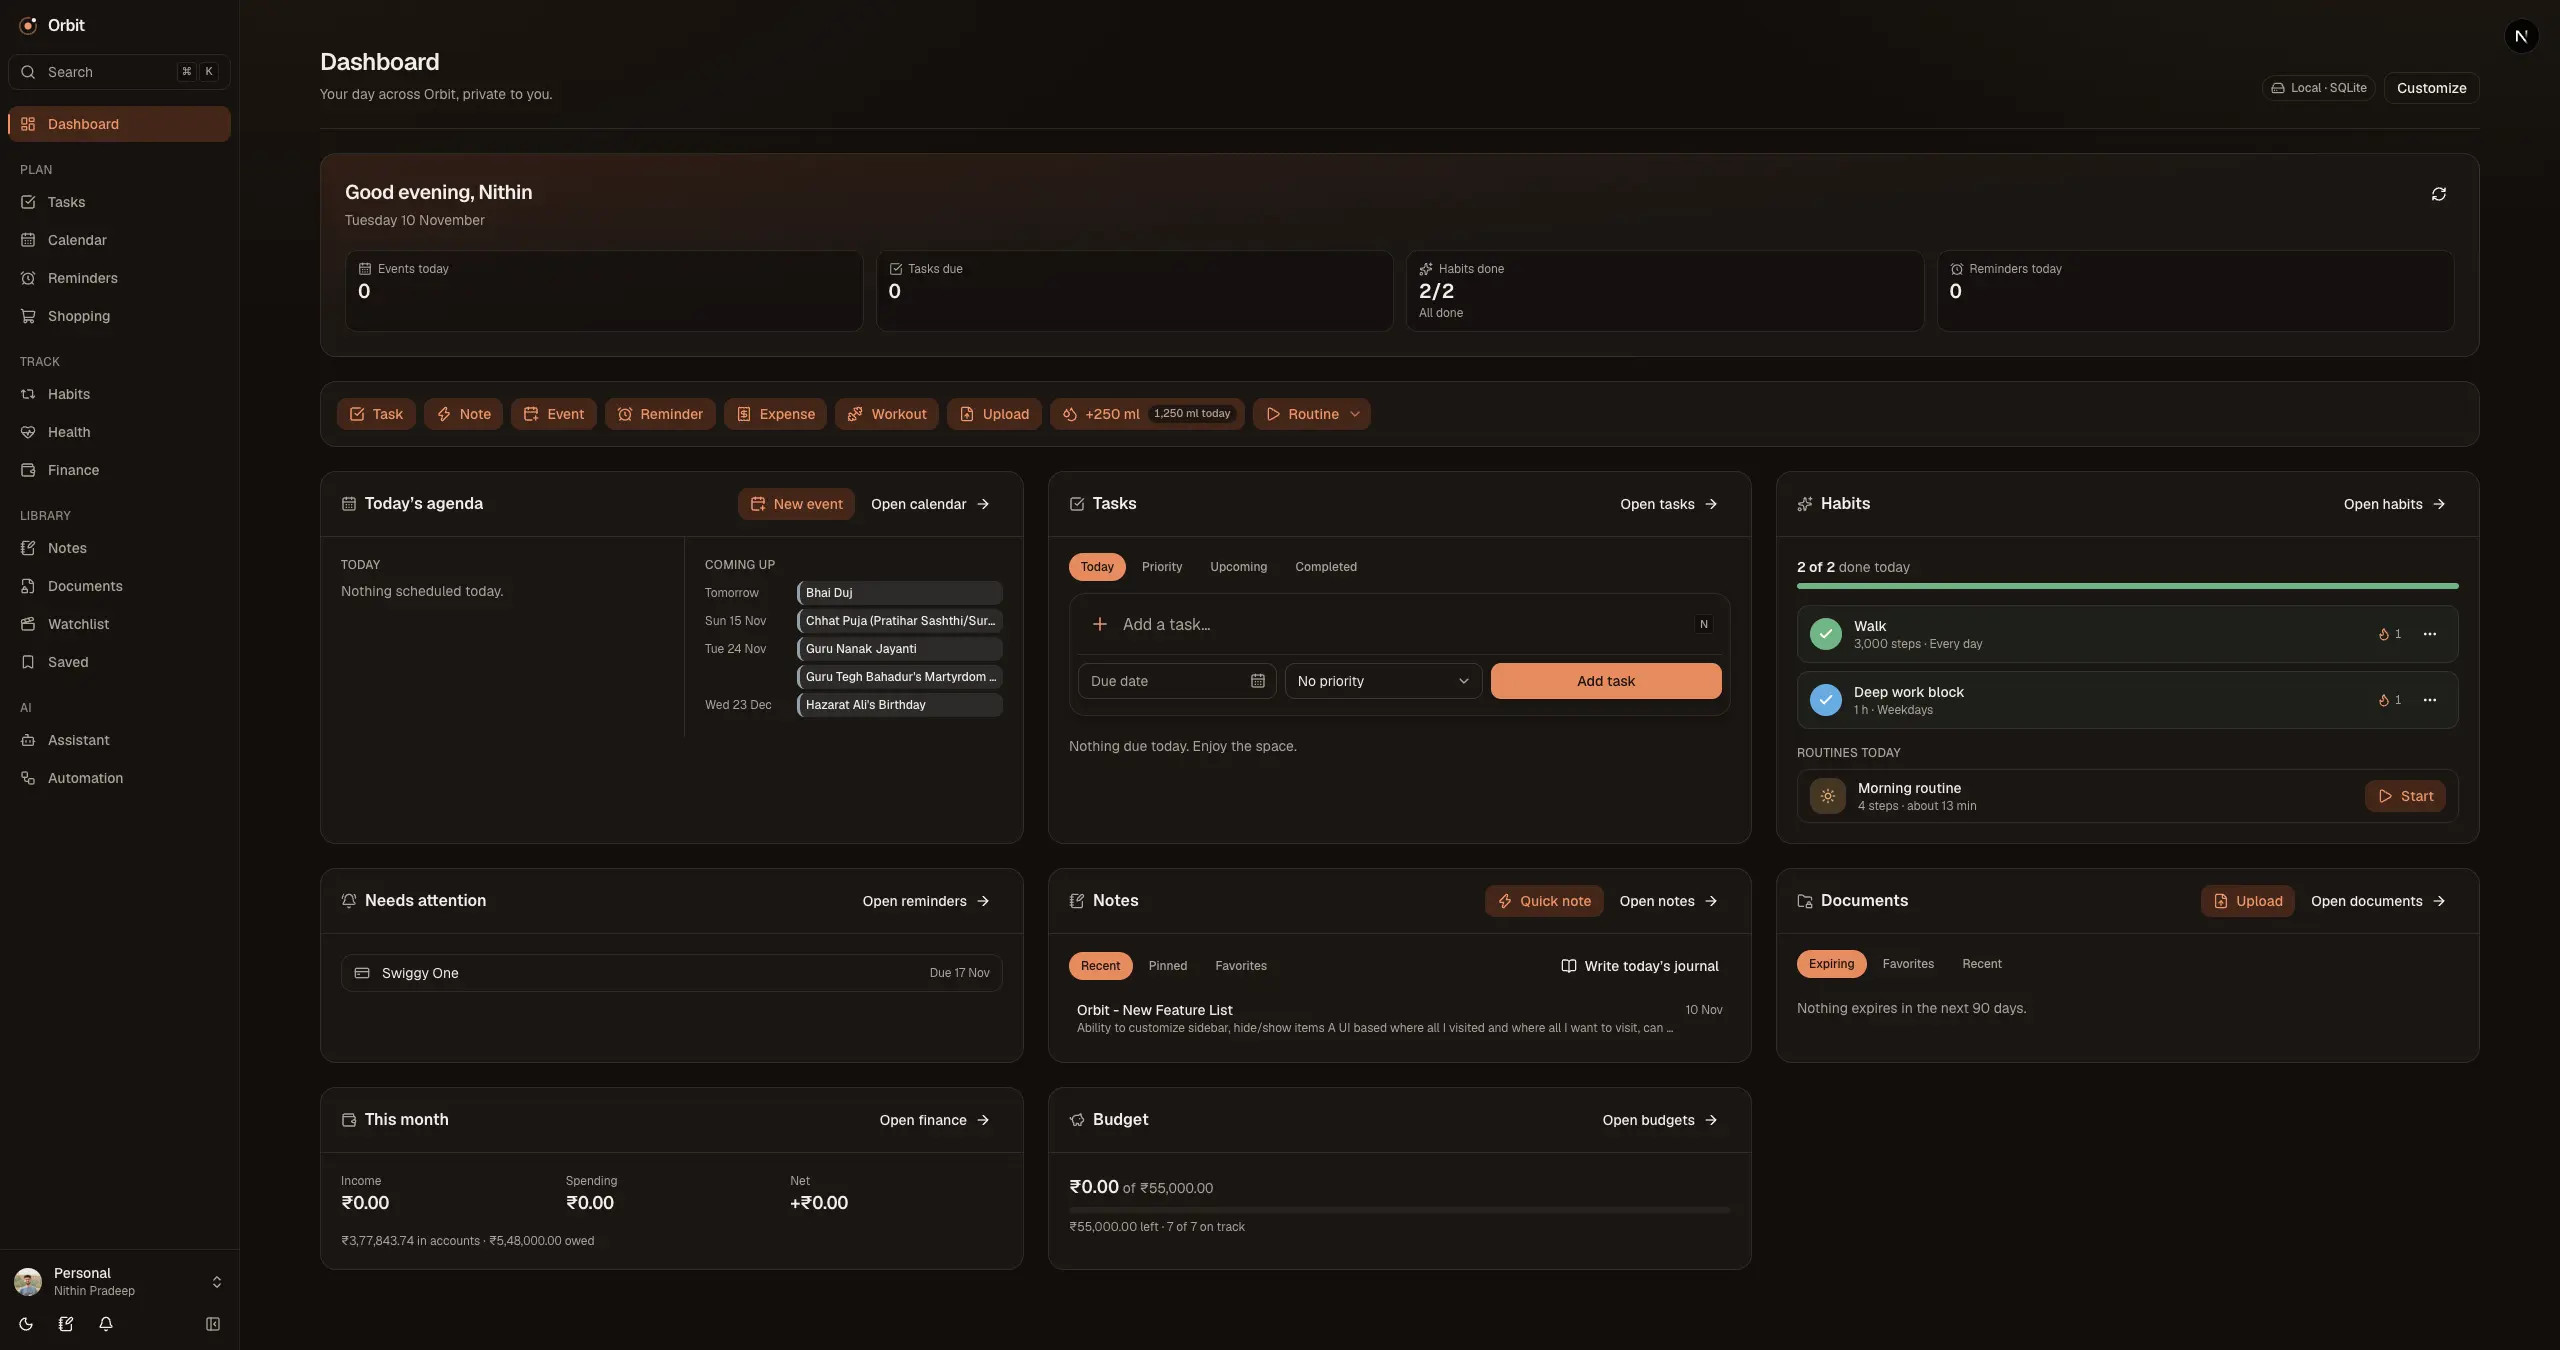
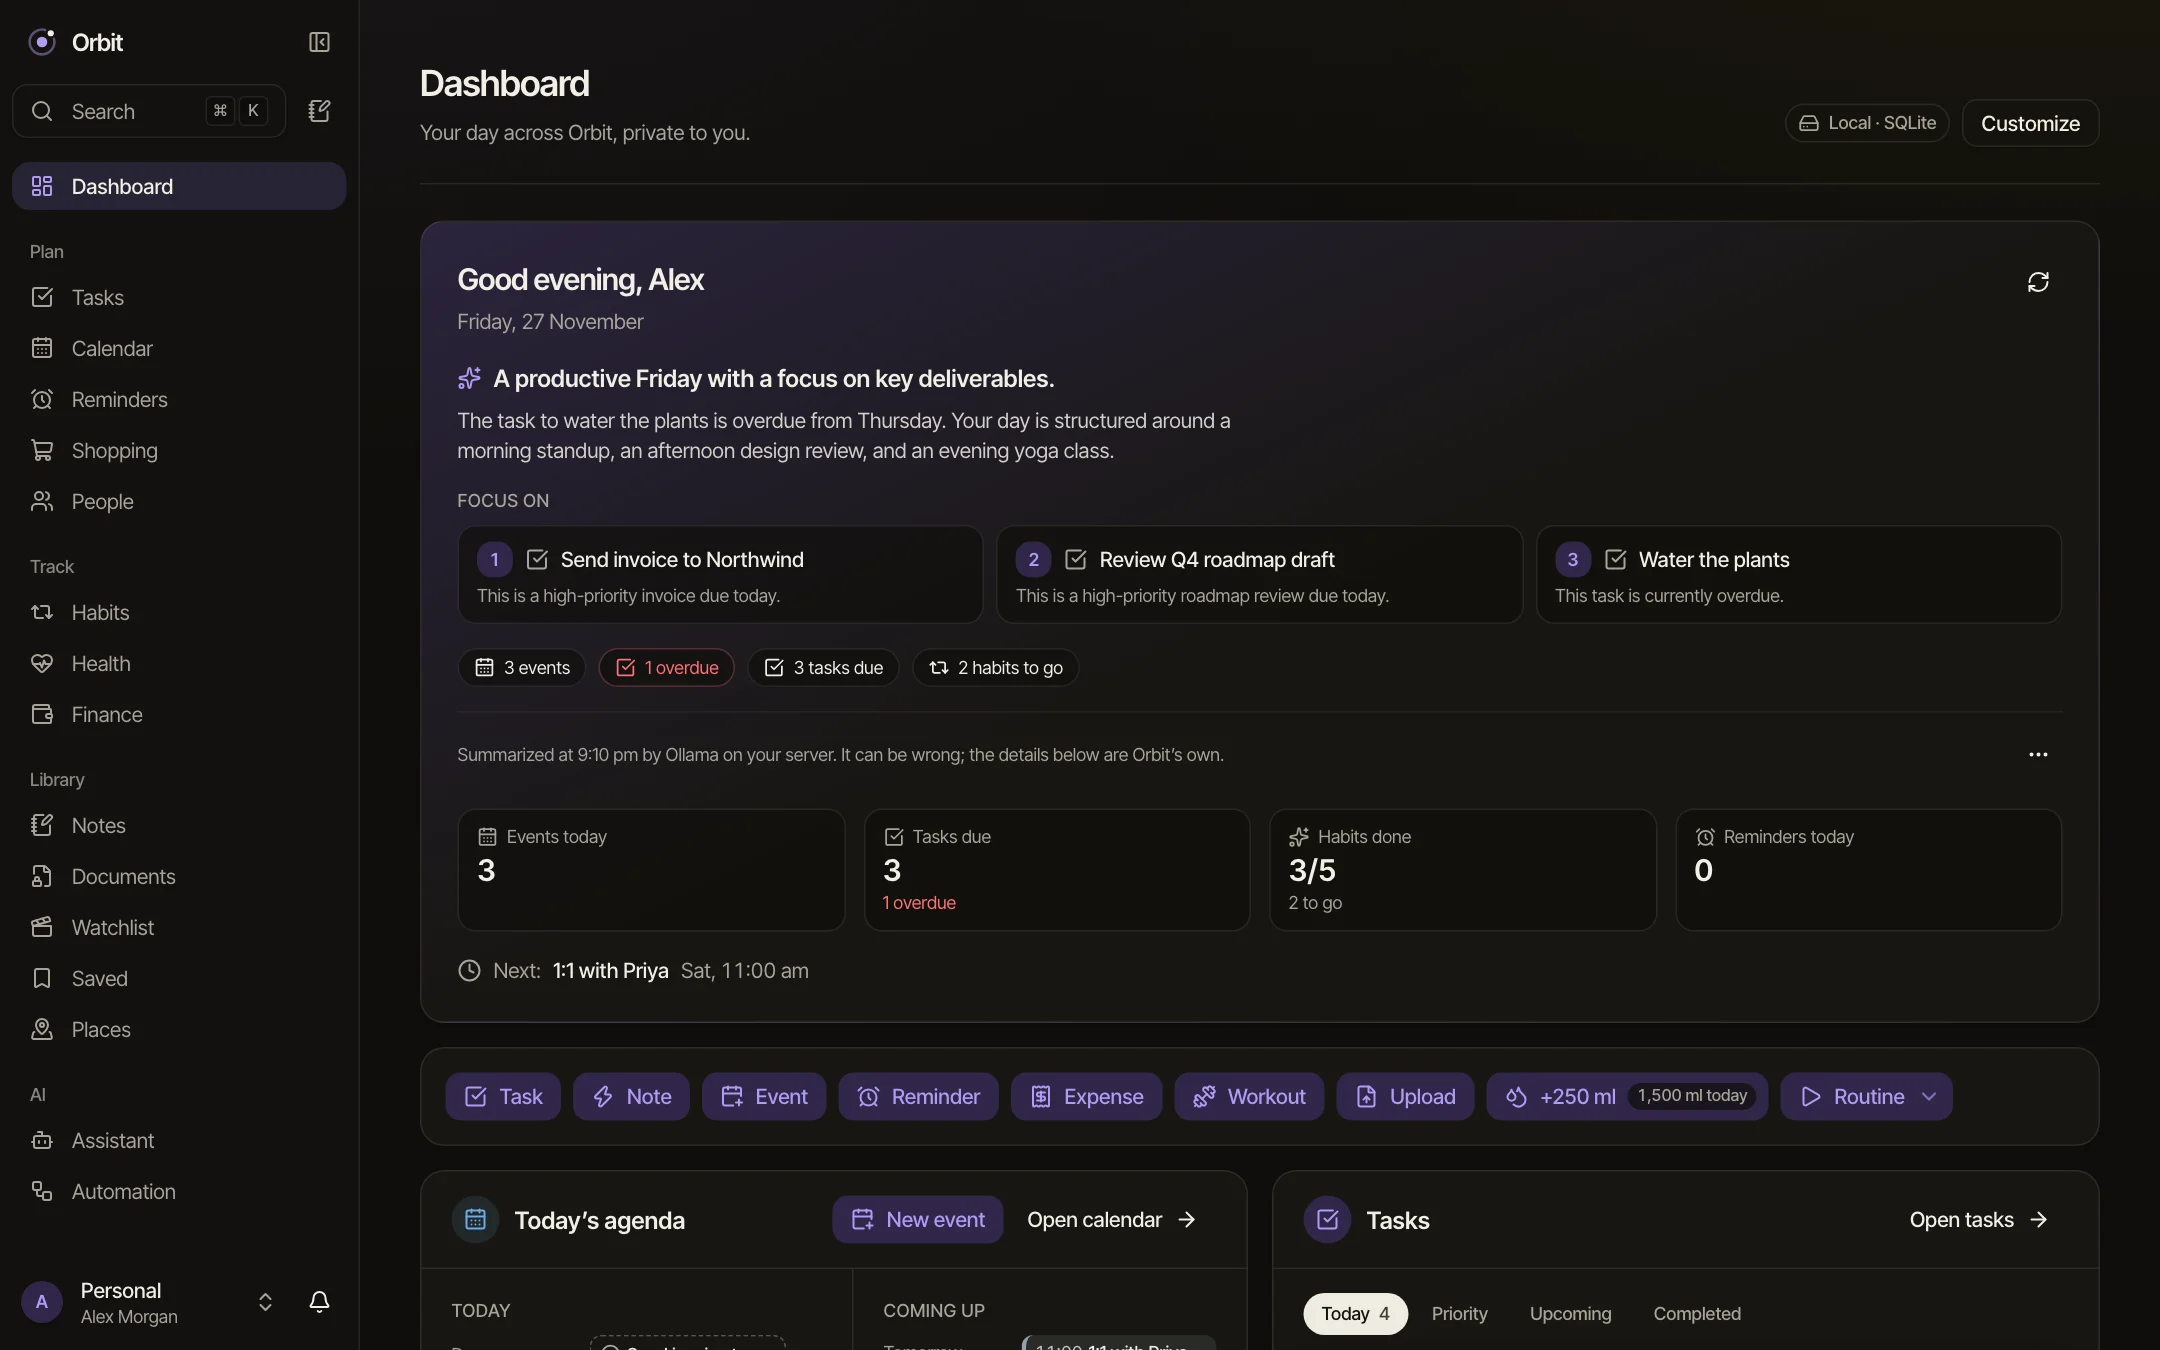
docs: refresh README screenshots with sample data
Replace the screenshots with ones taken from a demo account with made-up
data, and show every main page: tasks, calendar, finance, notes, habits,
health, people, shopping, watchlist, saved, places, profile, assistant,
and automation.

diff --git a/README.md b/README.md
@@ -56,18 +56,36 @@ with an optional AI assistant that only sees what you allow.
 
 ## Screenshots
 
+Shown with sample data. The assistant runs on a local model through Ollama.
+
 <table>
   <tr>
     <td align="center"><img src="docs/screenshots/dashboard-light_mode.webp" alt="Dashboard in light mode"><br><sub>Dashboard, light</sub></td>
     <td align="center"><img src="docs/screenshots/dashboard-dark_mode.webp" alt="Dashboard in dark mode"><br><sub>Dashboard, dark</sub></td>
   </tr>
   <tr>
-    <td align="center"><img src="docs/screenshots/calendar.webp" alt="Calendar"><br><sub>Calendar</sub></td>
+    <td align="center"><img src="docs/screenshots/tasks.webp" alt="Tasks"><br><sub>Tasks</sub></td>
+    <td align="center"><img src="docs/screenshots/calendar.webp" alt="Calendar week view"><br><sub>Calendar</sub></td>
+  </tr>
+  <tr>
+    <td align="center"><img src="docs/screenshots/finance.webp" alt="Finance overview"><br><sub>Finance</sub></td>
+    <td align="center"><img src="docs/screenshots/notes.webp" alt="Notes"><br><sub>Notes</sub></td>
+  </tr>
+  <tr>
+    <td align="center"><img src="docs/screenshots/habits.webp" alt="Habits"><br><sub>Habits</sub></td>
     <td align="center"><img src="docs/screenshots/health.webp" alt="Health"><br><sub>Health</sub></td>
+  </tr>
+  <tr>
+    <td align="center"><img src="docs/screenshots/people.webp" alt="People"><br><sub>People</sub></td>
+    <td align="center"><img src="docs/screenshots/shopping.webp" alt="Shopping list"><br><sub>Shopping</sub></td>
   </tr>
   <tr>
     <td align="center"><img src="docs/screenshots/watchlist.webp" alt="Watchlist"><br><sub>Watchlist</sub></td>
     <td align="center"><img src="docs/screenshots/saved.webp" alt="Saved links"><br><sub>Saved</sub></td>
+  </tr>
+  <tr>
+    <td align="center"><img src="docs/screenshots/places.webp" alt="Places world map"><br><sub>Places</sub></td>
+    <td align="center"><img src="docs/screenshots/profile.webp" alt="Profile and achievements"><br><sub>Profile</sub></td>
   </tr>
   <tr>
     <td align="center"><img src="docs/screenshots/assistant.webp" alt="AI assistant"><br><sub>AI assistant</sub></td>
